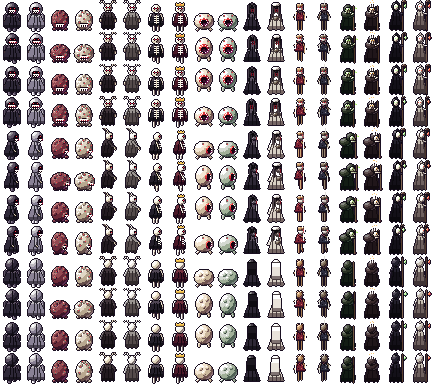
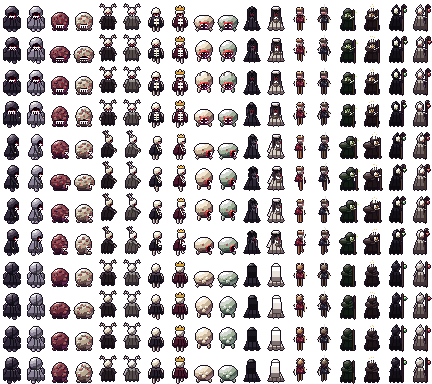
The demons and the Wolf Man drawn for the camera too, seen from above like the hero and the villagers: below the shoulders the body is foreshortened, the head keeps its size, the face sits lower so the crown of the hood or skull shows, and they're lit from above. Demons: every drawing call of the ex
Claude-Session: https://claude.ai/code/session_01VuDZBwELyciHjvCxSy56p5

Changed region(s): [[0.0, 0.0, 1.0, 1.0], [0.8727, 0.2188, 0.9028, 0.25]]

diff --git a/tools/overworld_tilt.py b/tools/overworld_tilt.py
@@ -1,0 +1,122 @@
+"""Seen from above: the demons' overworld sprites drawn for the 3D camera, like
+the hero (make_hero_tilt.py) -- not at eye level.
+
+The designs in overworld_demons.py are drawn as if you stood in front of them:
+face in the middle of the head, the body at full height. The 3D view looks
+down on them, so here every drawing call goes through TiltSprite, which moves
+the design's coordinates the way the camera would see them:
+  - below the shoulders the body is foreshortened (BODY_K): shorter robes,
+    legs tucked under, the feet on the ground where they were
+  - the head keeps its size (it sits nearer the camera) and moves down with
+    the shortened body
+  - the face slides toward the bottom of the head (FACE_K) so the crown of
+    the hood or skull shows above it
+  - light comes from above (pixkit.LIGHT, set while the demons are drawn)
+The designs themselves -- shapes, colours, the way each one moves -- don't
+change. make_overworld_creatures.py draws the demons through this.
+"""
+import pixkit
+
+GROUND = 30
+BODY_K = 0.78       # how much of its height the body below the shoulders keeps
+FACE_K = 0.62       # face features: their distance from the bottom of the head, kept
+TOP_LIGHT = (-0.42, -0.86, 0.40)
+FACE_MATS = {"mouth", "teeth", "gum", "tongue", "tear"}
+
+# per design: the shoulder line and the head (top, bottom) in the design's own
+# coordinates (frames' bob aside); a blob design has no neck: its whole body is "head"
+PARAMS = {
+    "grinner":    dict(shoulder=13.5, head=(3.0, 14.8)),
+    "many_eyes":  dict(shoulder=11.0, head=(10.0, 29.0), body_k=0.88, face_k=0.9),   # (eyes all over: keep them spread)
+    "wraith":     dict(shoulder=12.5, head=(3.5, 12.0)),
+    "hollow":     dict(shoulder=13.5, head=(4.6, 13.2)),
+    "maw":        dict(shoulder=9.0, head=(8.0, 29.0), body_k=0.88),
+    "weeper":     dict(shoulder=12.0, head=(4.2, 11.6)),
+    "bride":      dict(shoulder=12.0, head=(4.2, 11.6)),
+    "marionette": dict(shoulder=12.0, head=(4.2, 11.8)),
+    "witch":      dict(shoulder=13.0, head=(5.0, 13.0)),
+    "shepherd":   dict(shoulder=10.5, head=(2.0, 11.0)),
+}
+
+
+class TiltSprite:
+    """Wraps a pixkit.Sprite; the design draws on it exactly as before."""
+
+    def __init__(self, sprite, design):
+        self.s = sprite
+        p = PARAMS[design]
+        self.sh = p["shoulder"]
+        self.k = p.get("body_k", BODY_K)
+        self.top, self.bot = p["head"]
+        self.face_k = p.get("face_k", FACE_K)
+
+    def __getattr__(self, name):
+        return getattr(self.s, name)
+
+    # --- the camera ---
+    def y(self, y):
+        h = GROUND - y
+        hs = GROUND - self.sh
+        h2 = h * self.k if h <= hs else hs * self.k + (h - hs)
+        return GROUND - h2
+
+    def dy(self, y):
+        return self.k if y > self.sh else 1.0
+
+    def face(self, y):
+        if self.top <= y <= self.bot + 1.0:
+            return self.bot - (self.bot - y) * self.face_k
+        return y
+
+    def is_face(self, mat, small=True):
+        return mat in FACE_MATS or (isinstance(mat, str) and mat not in pixkit_mats() and len(mat) == 6) \
+            or (mat in ("bone", "skin") and small)
+
+    def pt(self, x, y, mat, small=False):
+        if self.is_face(mat, small):
+            y = self.face(y)
+        return x, self.y(y)
+
+    # --- the drawing calls the designs use ---
+    def blob(self, cx, cy, rx, ry, mat, *a, **kw):
+        small = max(rx, ry) <= 2.6
+        x, y = self.pt(cx, cy, mat, small)
+        return self.s.blob(x, y, rx, ry * self.dy(cy), mat, *a, **kw)
+
+    def limb(self, pts, r, mat, *a, **kw):
+        return self.s.limb([(x, self.y(y)) for x, y in pts], r, mat, *a, **kw)
+
+    def poly(self, pts, mat, *a, **kw):
+        return self.s.poly([(x, self.y(y)) for x, y in pts], mat, *a, **kw)
+
+    def dot(self, x, y, mat, *a, **kw):
+        x2, y2 = self.pt(x, y, mat, True)
+        return self.s.dot(x2, round(y2), mat, *a, **kw)
+
+    def line(self, pts, mat, *a, **kw):
+        return self.s.line([self.pt(x, y, mat, True) for x, y in pts], mat, *a, **kw)
+
+
+_MATS = None
+
+
+def pixkit_mats():
+    """Material names (not hex colours) the demon palettes use."""
+    global _MATS
+    if _MATS is None:
+        _MATS = {"cloak", "skin", "bone", "claw", "mouth", "teeth", "gum", "tongue", "tear", "hair", "veil",
+                 "flower", "gold", "wood", "string", "glow", "wax"}
+    return _MATS
+
+
+class top_light:
+    """with top_light(): ... -- pixkit lights from above while the demons are drawn."""
+
+    def __enter__(self):
+        self.old = pixkit.LIGHT
+        import math
+        n = math.sqrt(sum(c * c for c in TOP_LIGHT))
+        pixkit.LIGHT = tuple(c / n for c in TOP_LIGHT)
+
+    def __exit__(self, *e):
+        pixkit.LIGHT = self.old

diff --git a/tools/make_longman.py b/tools/make_longman.py
@@ -15,6 +15,14 @@ texture pixel per screen pixel), so the detail comes from craft, not size:
 
 Frames are 80 x 80; the pivot is the bottom middle (40, 79).
 
+Seen from above (like the hero, make_hero_tilt.py): the 3D view looks down on
+the labyrinth, so each pose is drawn for that camera rather than at eye level --
+WARP squeezes the pose's heights the way the camera foreshortens them (standing:
+legs most, the torso less, the head not at all; crawling and lunging: evenly,
+so you see along its back), the face sits lower on the head so the crown shows,
+and the light comes from above. The shapes and anatomy are untouched. Set
+LONGMAN_FLAT=1 for the old eye-level drawing.
+
     python3 tools/make_longman.py assets   (writes assets/longman.png)
 """
 import math
@@ -57,7 +65,8 @@ GLASS = hexc("2c3a42")
 GLASS_HI = hexc("8fa6ab")
 RUST = hexc("6b3a2a")
 
-L = (-0.72, -0.52, 0.46)
+FLAT = bool(os.environ.get("LONGMAN_FLAT"))
+L = (-0.72, -0.52, 0.46) if FLAT else (-0.5, -0.76, 0.42)   # (seen from above: lit from above)
 _n = math.sqrt(sum(c * c for c in L))
 L = tuple(c / _n for c in L)
 LXY = (L[0], L[1])
@@ -88,6 +97,36 @@ def lit_side(a, b):
     if p[0] * LXY[0] + p[1] * LXY[1] < 0:
         p = (-p[0], -p[1])
     return p
+
+
+# --- The camera: how each pose's heights are foreshortened seen from above --------------
+GROUND_Y = 78.0
+WARP = None   # set per frame in main(): y -> y on screen (None = as drawn)
+
+
+def warp_upright(y):
+    """Standing: the legs shortened most, the torso less, the head and neck kept."""
+    h = GROUND_Y - y
+    hip, sho = 30.0, 53.0
+    if h <= hip:
+        h2 = h * 0.66
+    elif h <= sho:
+        h2 = hip * 0.66 + (h - hip) * 0.86
+    else:
+        h2 = hip * 0.66 + (sho - hip) * 0.86 + (h - sho)
+    return GROUND_Y - h2
+
+
+def warp_low(y):
+    """On all fours, lunging, perched: squeezed evenly -- you see along its back."""
+    return GROUND_Y - (GROUND_Y - y) * 0.84
+
+
+def _wy(y):
+    return y if WARP is None else WARP(y)
+
+
+UPRIGHT_LOOK = 0.0 if FLAT else -1.7   # the face lower on the head: you see the crown
 
 
 class Frame:
@@ -150,6 +189,8 @@ class Frame:
         cells = {}
         for s in shapes:
             cells.update(s)
+        if WARP is not None:
+            cells = {(x, int(math.floor(_wy(y + 0.5)))): v for (x, y), v in cells.items()}
         cells = {c: v for c, v in cells.items() if self.inside(c)}
         if outline:
             for (x, y), v in cells.items():
@@ -177,7 +218,7 @@ class Frame:
         return set(cells)
 
     def put(self, c, col, only=None):
-        c = (int(round(c[0])), int(round(c[1])))
+        c = (int(round(c[0])), int(round(_wy(c[1]))))
         if not self.inside(c) or (only is not None and c not in only):
             return
         self.px[c] = col
@@ -490,7 +531,7 @@ def upright(step=0, lift=0, sway=0.0, tilt=0.0, twitch=0, breath=0.0, swing=0.0)
         wrists[s] = wri
     # the dead lantern, hanging off the outside of its left hand (our left)
     lantern(f, (wrists[-1][0] - 1.5, wrists[-1][1] + 0.5), drop=3.5, swing=-2.6 + swing * 0.6)
-    face_front(f, (cx + tilt * 0.12 + tilt * 0.06, 12.5 + abs(tilt) * 0.035), tilt=tilt, swing=swing)
+    face_front(f, (cx + tilt * 0.12 + tilt * 0.06, 12.5 + abs(tilt) * 0.035), tilt=tilt, swing=swing, look=UPRIGHT_LOOK)
     return f
 
 
@@ -762,8 +803,16 @@ FIT = ("side", "perch", "lunge", "drop", "crawl")
 def main(out):
     os.makedirs(out, exist_ok=True)
     sheet = Image.new("RGBA", (FW * len(FRAMES), FH), (0, 0, 0, 0))
+    global WARP
     for i, (name, fn) in enumerate(FRAMES):
+        WARP = None
+        if not FLAT:
+            if name.startswith(("idle", "breathe", "tilt", "walk")):
+                WARP = warp_upright
+            elif name.startswith(("crawl", "lunge", "drop", "perch", "toward", "side")):
+                WARP = warp_low
         f = fn()
+        WARP = None
         if name.startswith(FIT):
             fit(f)
         grime(f)

diff --git a/tools/make_overworld_creatures.py b/tools/make_overworld_creatures.py
@@ -4,7 +4,8 @@ and overworld_demons.py).
 
     columns   one per insect, 24 px, same order as CreatureData / insects.png
     rows      facing x frame: down 0-3, side 4-7, up 8-11 (24 px each)
-    demons    the same layout in 24 x 32 cells, same order as demons.png
+    demons    the same layout in 24 x 32 cells, same order as demons.png -- drawn
+              seen from above for the 3D camera (overworld_tilt.py)
 
 Insects whose design isn't drawn yet are left empty (the game falls back to
 their old sprite). Run:  python3 tools/make_overworld_creatures.py
@@ -18,6 +19,7 @@ sys.path.insert(0, str(Path(__file__).resolve().parent))
 from make_battle_sprites import INSECTS, DEMONS  # noqa: E402  (names, designs, palettes)
 import overworld_creatures as oc        # noqa: E402
 import overworld_demons as od           # noqa: E402
+import overworld_tilt as tilt           # noqa: E402  (the demons, seen from above)
 from pixkit import Sprite               # noqa: E402
 
 ROOT = Path(__file__).resolve().parent.parent
@@ -44,8 +46,10 @@ def main():
         for fi, facing in enumerate(FACINGS):
             for f in range(FRAMES):
                 s = Sprite(24, 32)
-                od.DESIGNS[design](s, facing, f, opts)
-                sheet.paste(s.image(pal), (i * 24, (fi * FRAMES + f) * 32))
+                with tilt.top_light():     # drawn for the camera, from above (overworld_tilt.py)
+                    od.DESIGNS[design](tilt.TiltSprite(s, design), facing, f, opts)
+                    img = s.image(pal)
+                sheet.paste(img, (i * 24, (fi * FRAMES + f) * 32))
     sheet.save(ROOT / "assets" / "demons_walk.png")
     print("wrote assets/demons_walk.png")
 
